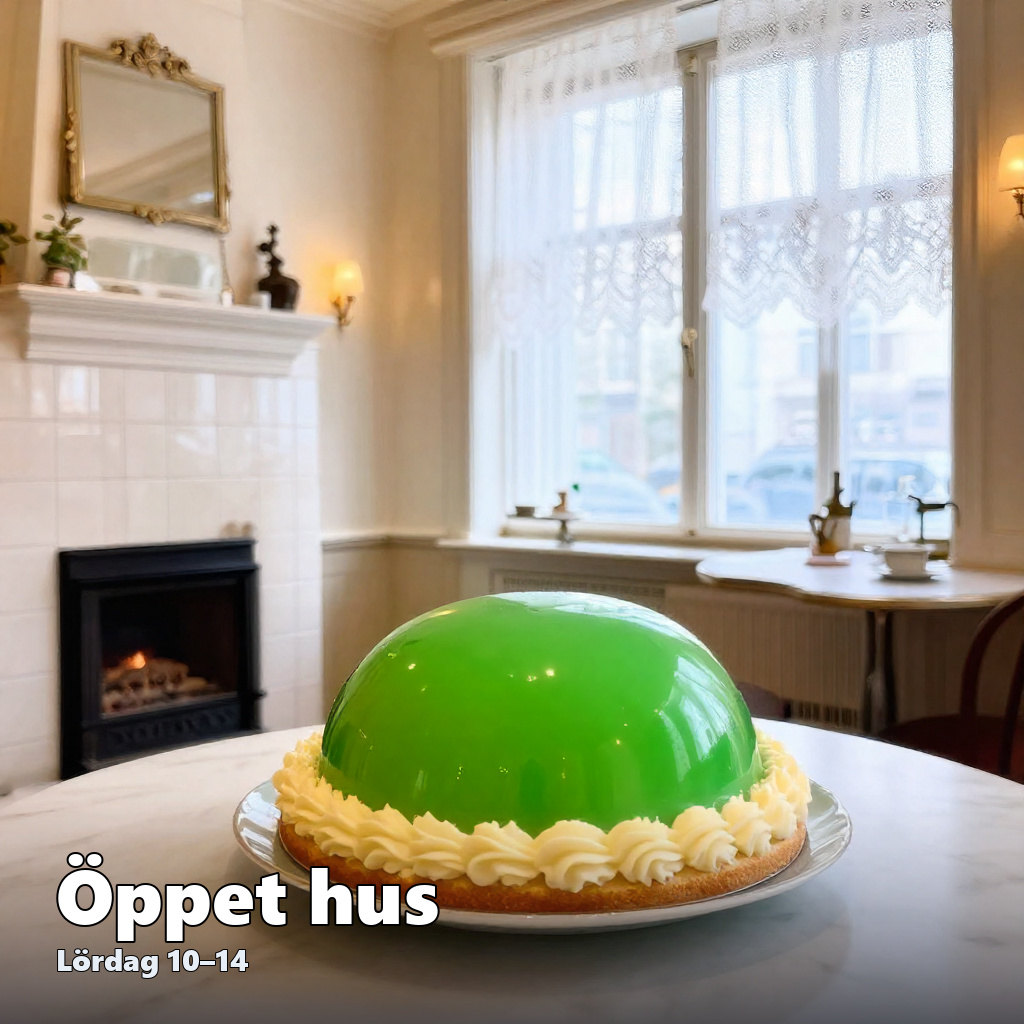
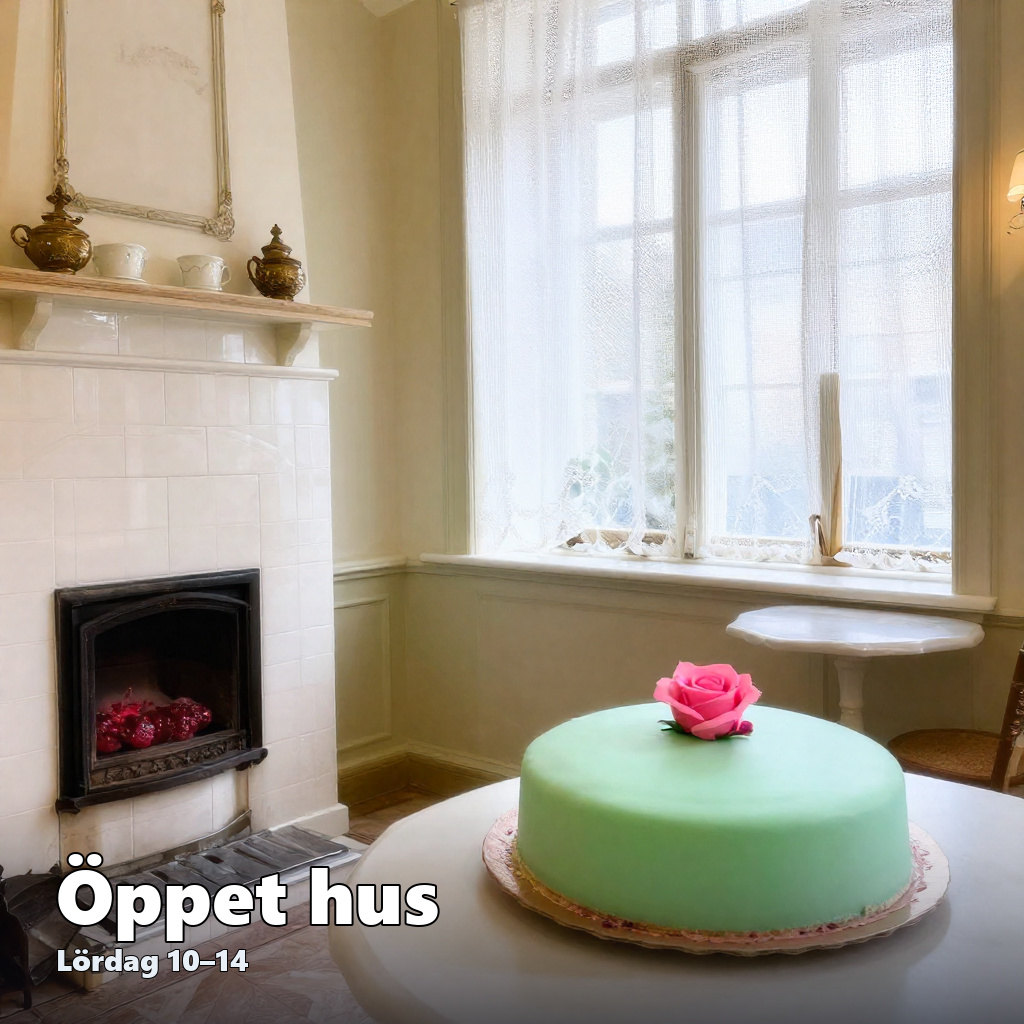
A proper princess cake: low, matte light green, small marzipan rose; gallery image redone

diff --git a/tools/patch_cues_swedish.py b/tools/patch_cues_swedish.py
@@ -168,9 +168,16 @@ NEW = {
     "helbild": ("wide-angle view", "whole scene visible, depth"),
     "närbild": ("close-up", "shallow depth of field"),
     # 09-28: "tårtan har grädde på sidorna, inte virkade mormors-mönster"
-    "prinsesstårta": ("a Swedish princess cake on a table",
-                      "smooth green marzipan dome, whipped cream on the sides, one slice cut out showing "
-                      "sponge layers and cream, pink marzipan rose on top"),
+    # 09-28 (2): "som ett rymdskepp - inte så glansig, utan matt grön, och en rosa ros på
+    # toppen, inte för stor". "smooth" gav blank plast; rosen föll bort när budgeten tog slut ->
+    # rosen ligger nu i SUBSTANTIVET (läggs alltid först). Inga negationer ("not glossy" drar in glans).
+    # (3) referensbilder: LÅG BRED kupol, liten ros + två gröna blad; insida sockerkaka, hallonsylt,
+    # vaniljkräm, grädde under ett grönt marsipanlock. (4) 'inside'-ord ritade lagren UTANPÅ ->
+    # locket täcker hela tårtan; lagren syns bara i en uppskuren bit.
+    "prinsesstårta": ("a low, matte light-green Swedish princess cake with a small pink marzipan rose",
+                      "two green marzipan leaves, low wide rounded dome, dusted with powdered sugar, "
+                      "marzipan lid covering the whole cake down to the plate, "
+                      "one slice cut out revealing sponge, raspberry jam and vanilla cream"),
     # platsbundna spetsord: den generiska "fine crochet texture" lade modellen PA tartan
     "spetsgardin": ("lace curtains in the window", "sheer lace, soft backlight"),
     "spetsgardiner": ("lace curtains in the window", "sheer lace, soft backlight"),
